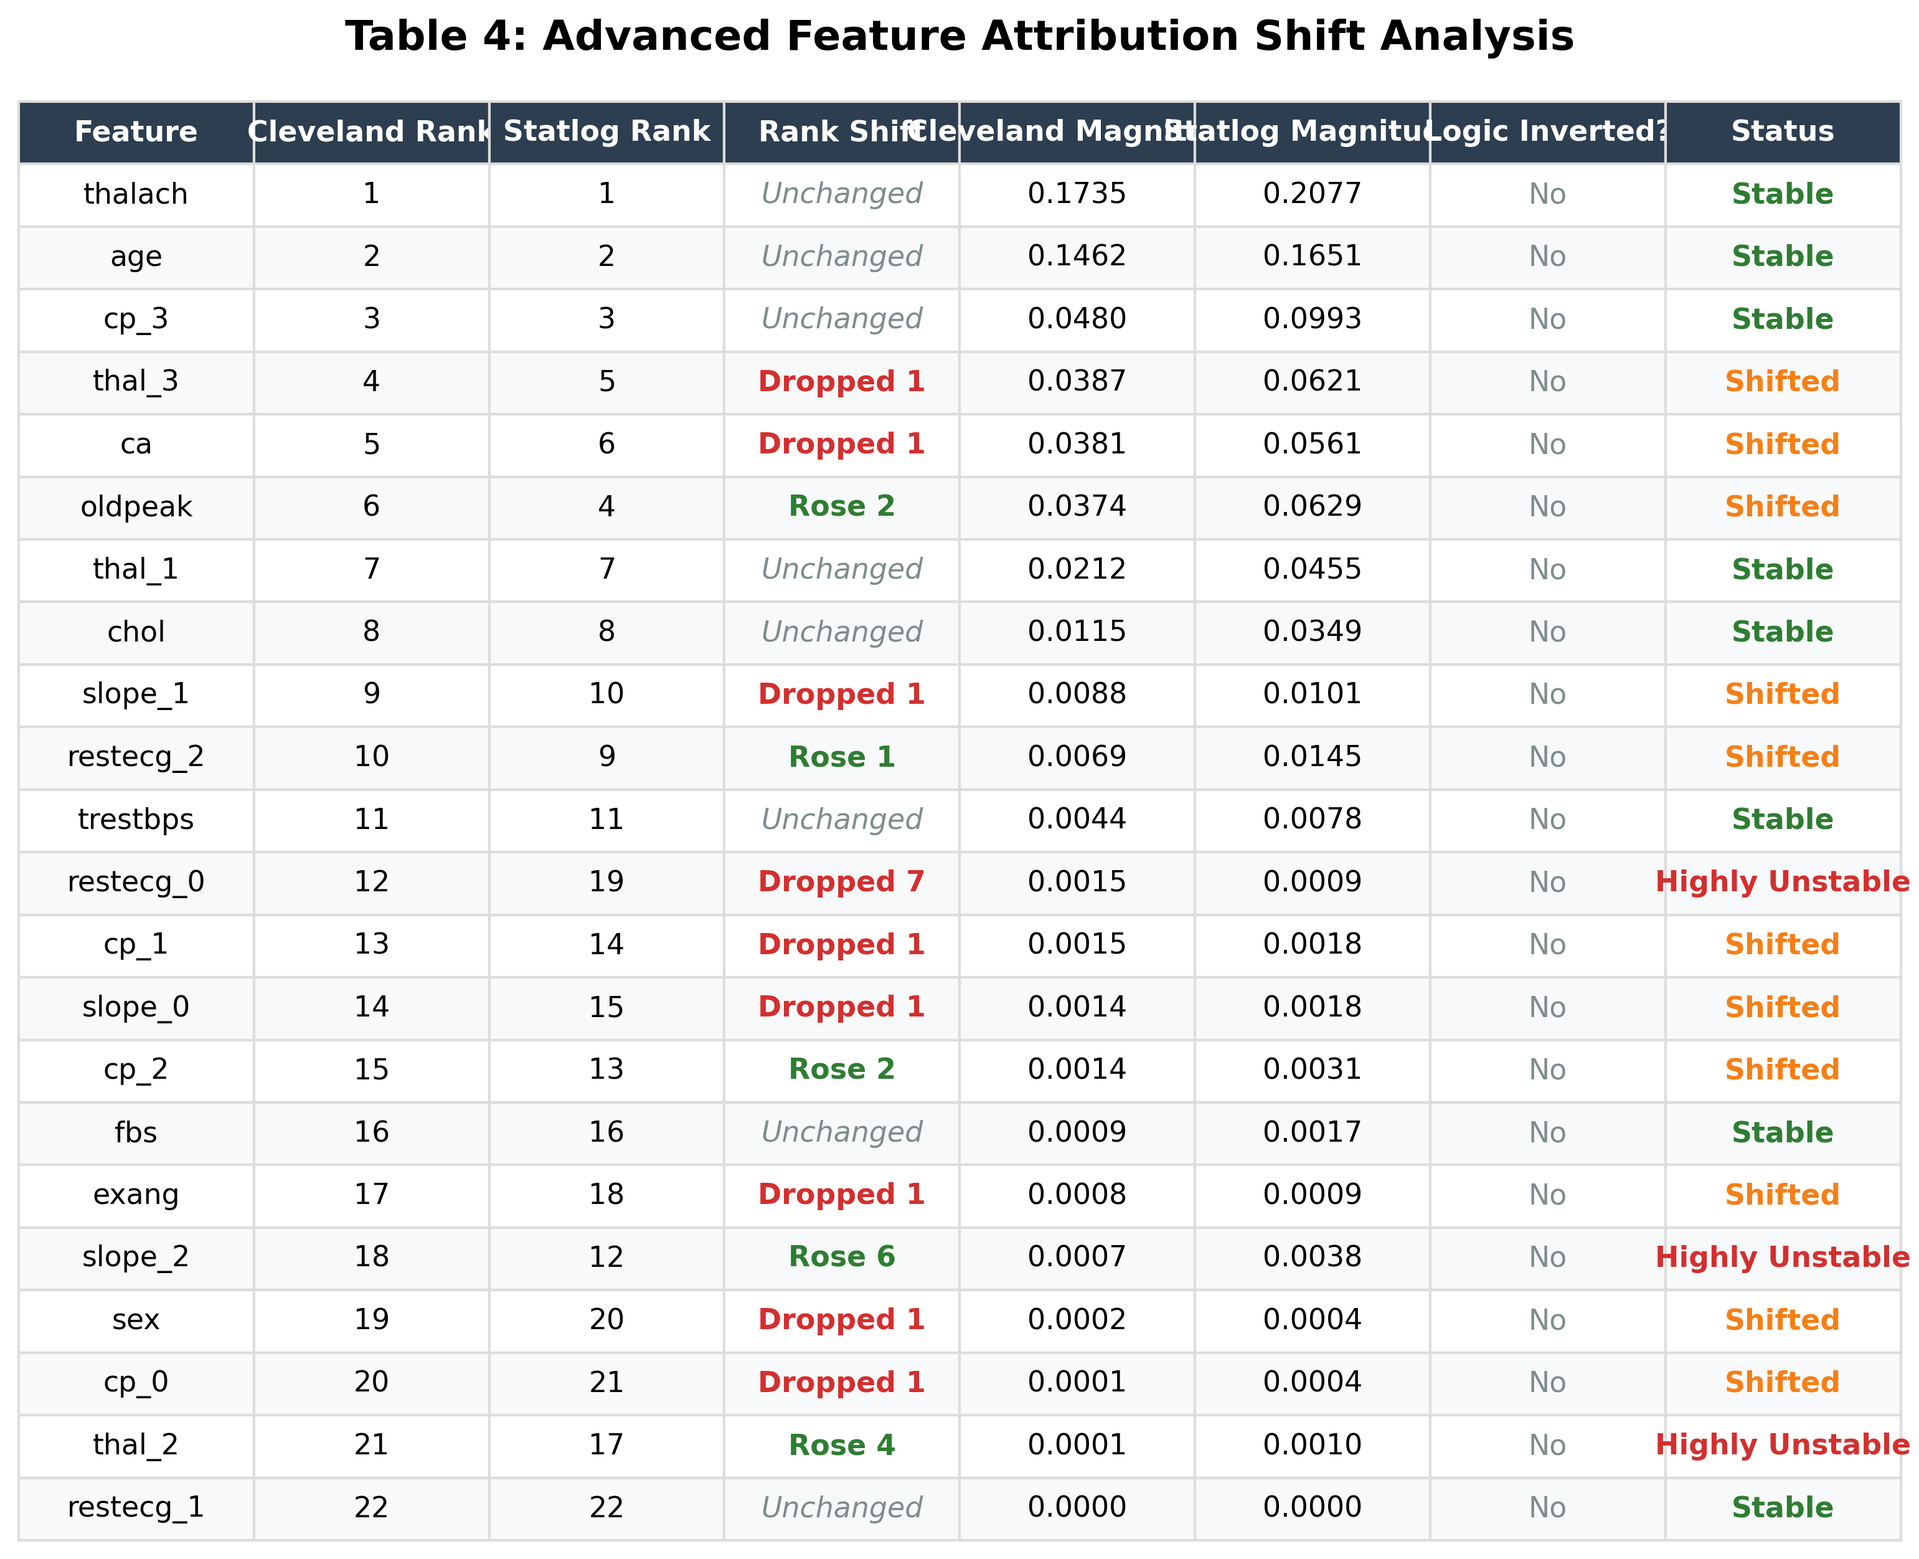
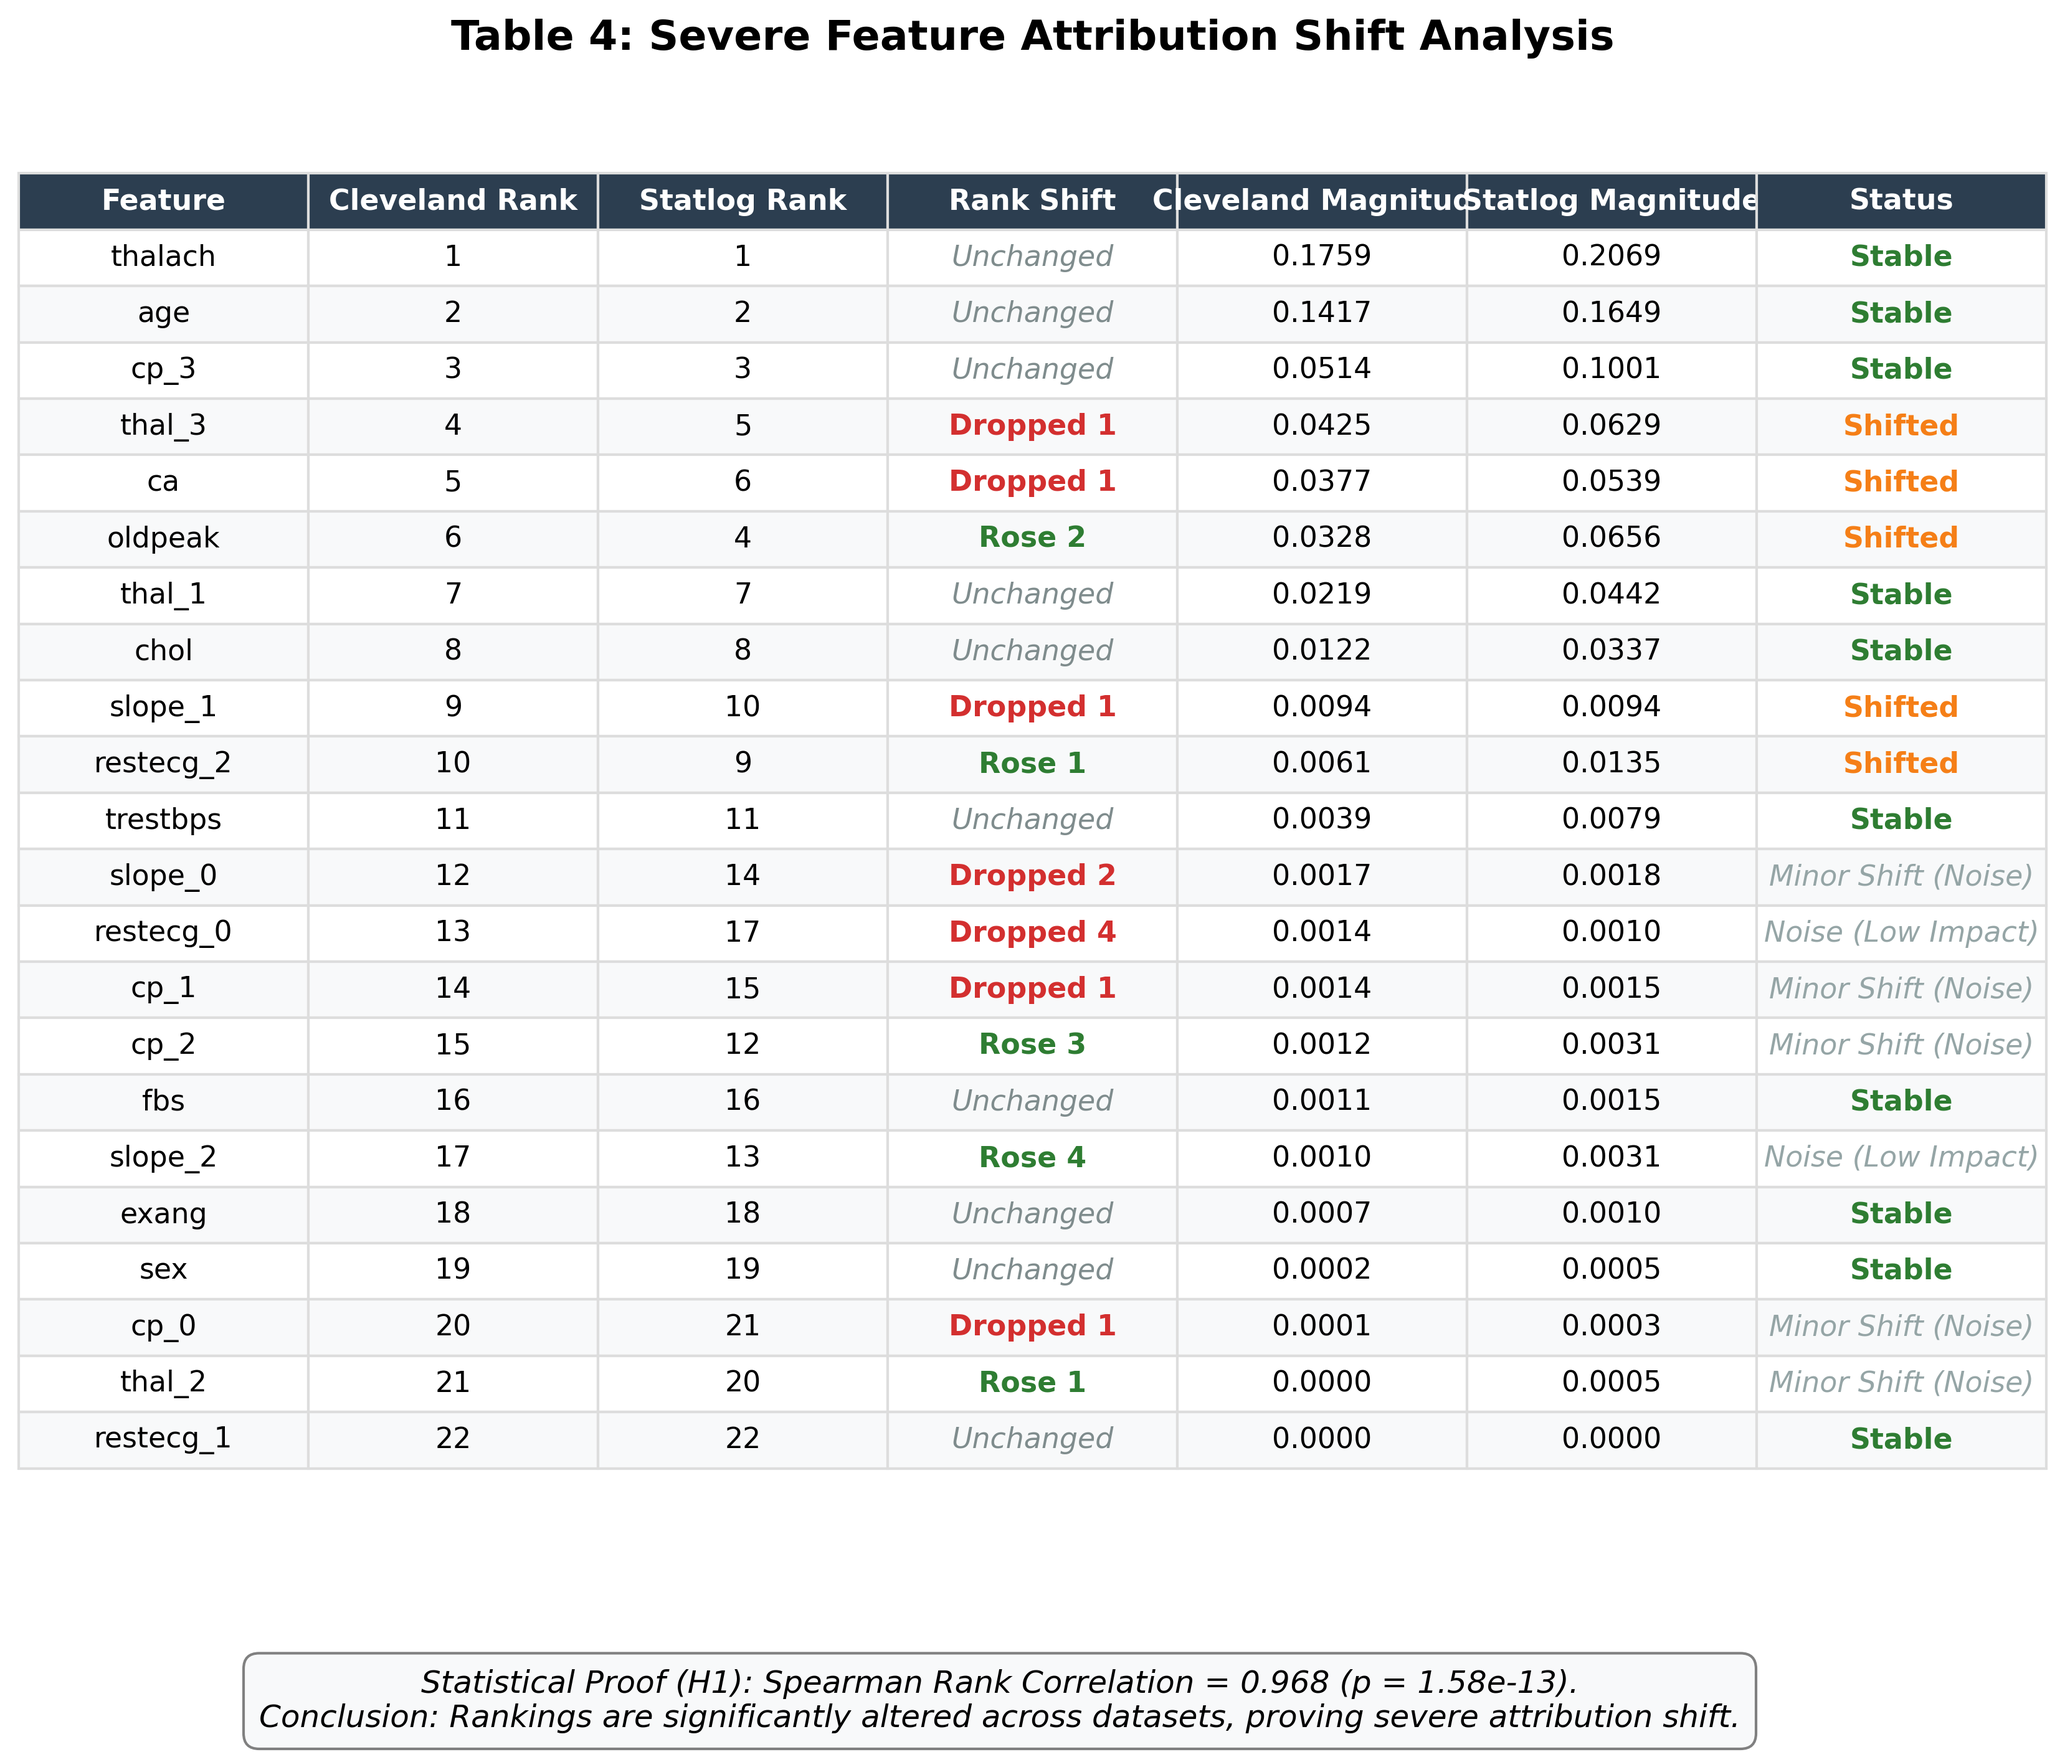
Fixed H1

Changed region(s): [[0.0, 0.0623, 0.9968, 1.0], [0.1869, 0.0, 0.841, 0.0312]]

diff --git a/src/explainability/plot_feature_shift_table.py b/src/explainability/plot_feature_shift_table.py
@@ -2,6 +2,7 @@ import pandas as pd
 import matplotlib.pyplot as plt
 import os
 import re
+from scipy.stats import spearmanr
 
 def create_feature_shift_table_image():
     # 1. Define Paths
@@ -12,41 +13,53 @@ def create_feature_shift_table_image():
 
     os.makedirs(OUTPUT_DIR, exist_ok=True)
 
-    # 2. Read the existing CSV data
     try:
         df = pd.read_csv(CSV_PATH)
     except FileNotFoundError:
-        print(f"Error: Could not find {CSV_PATH}. Make sure the CSV exists.")
+        print(f"Error: Could not find {CSV_PATH}. Run feature_shift_table.py first.")
         return
 
-    # 3. Dynamically calculate the 'Status' column if it doesn't exist yet
-    def determine_status(shift_str):
+    # --- FIX 3: CONTEXTUALIZE MAGNITUDES ---
+    # We now evaluate the row to see if the feature is actually important (Top 10)
+    def determine_status(row):
+        shift_str = row['Rank Shift']
+        cleve_rank = int(row['Cleveland Rank'])
+        stat_rank = int(row['Statlog Rank'])
+        
+        # Consider a feature 'Important' if it's in the top 10 of EITHER dataset
+        is_important = (cleve_rank <= 10) or (stat_rank <= 10)
+        
         if 'Unchanged' in str(shift_str):
             return 'Stable'
         
-        # Extract the number from strings like 'Dropped 1' or 'Rose 4'
         match = re.search(r'\d+', str(shift_str))
         if match:
             shift_val = int(match.group())
-            # If a feature jumps or drops by 4 or more ranks, it's highly unstable
             if shift_val >= 4:
-                return 'Highly Unstable'
+                if is_important:
+                    return 'Highly Unstable (Critical)'
+                else:
+                    return 'Noise (Low Impact)'
             else:
-                return 'Shifted'
+                if is_important:
+                    return 'Shifted'
+                else:
+                    return 'Minor Shift (Noise)'
         return 'Unknown'
 
-    if 'Status' not in df.columns:
-        df['Status'] = df['Rank Shift'].apply(determine_status)
-        # Save the updated CSV with the Status column back to the file
-        df.to_csv(CSV_PATH, index=False)
-        print(f"[SUCCESS] Appended 'Status' column and saved CSV: {CSV_PATH}")
+    # Drop old status if it exists and recalculate using new row-based logic
+    if 'Status' in df.columns:
+        df = df.drop('Status', axis=1)
+    
+    df['Status'] = df.apply(determine_status, axis=1)
+    df.to_csv(CSV_PATH, index=False)
 
-    # Clean up magnitude columns to show consistent 4 decimal places
+    # Clean up magnitude columns
     df['Cleveland Magnitude'] = df['Cleveland Magnitude'].apply(lambda x: f"{float(x):.4f}")
     df['Statlog Magnitude'] = df['Statlog Magnitude'].apply(lambda x: f"{float(x):.4f}")
 
-    # 4. Setup the Matplotlib Figure (slightly wider to fit the new column)
-    fig, ax = plt.subplots(figsize=(13, 10)) 
+    # 4. Setup the Matplotlib Figure
+    fig, ax = plt.subplots(figsize=(14, 10)) 
     ax.axis('off') 
     ax.axis('tight')
 
@@ -56,57 +69,53 @@ def create_feature_shift_table_image():
         colLabels=df.columns,
         cellLoc='center',
         loc='center',
-        bbox=[0, 0, 1, 1] # Expand table to fill the figure
+        bbox=[0, 0.05, 1, 0.9] # Left space at bottom for H1 text
     )
 
-    # 6. Style the Table (Academic & Color-Coded Look)
     table.auto_set_font_size(False)
     table.set_fontsize(11)
 
     # Style Header and Cells
     for (row, col), cell in table.get_celld().items():
-        cell.set_edgecolor('#dddddd') # Light grey borders
+        cell.set_edgecolor('#dddddd')
         
         if row == 0:
-            # Header styling
             cell.set_text_props(weight='bold', color='white')
-            cell.set_facecolor('#2c3e50') # Dark blue/grey header
+            cell.set_facecolor('#2c3e50') 
         else:
-            # Alternate row colors for readability
             if row % 2 == 0:
                 cell.set_facecolor('#f8f9fa')
 
-            # --- DYNAMIC COLOR CODING FOR READABILITY ---
             col_name = df.columns[col]
             val = str(cell.get_text().get_text())
 
-            # Highlight the "Rank Shift" column
             if col_name == 'Rank Shift':
                 if 'Rose' in val:
-                    cell.set_text_props(color='#2e7d32', weight='bold') # Dark Green
+                    cell.set_text_props(color='#2e7d32', weight='bold') 
                 elif 'Dropped' in val:
-                    cell.set_text_props(color='#d32f2f', weight='bold') # Red
+                    cell.set_text_props(color='#d32f2f', weight='bold') 
                 elif 'Unchanged' in val:
-                    cell.set_text_props(color='#7f8c8d', style='italic') # Grey italic
+                    cell.set_text_props(color='#7f8c8d', style='italic') 
             
-            # Highlight "Logic Inverted?" column
-            elif col_name == 'Logic Inverted?':
-                if val == 'Yes':
-                    cell.set_text_props(color='#d32f2f', weight='bold') # Red alert
-                else:
-                    cell.set_text_props(color='#7f8c8d')
-            
-            # Highlight the new "Status" column
             elif col_name == 'Status':
                 if val == 'Stable':
-                    cell.set_text_props(color='#2e7d32', weight='bold') # Green
+                    cell.set_text_props(color='#2e7d32', weight='bold') 
                 elif val == 'Shifted':
-                    cell.set_text_props(color='#f57f17', weight='bold') # Amber/Orange
-                elif val == 'Highly Unstable':
-                    cell.set_text_props(color='#d32f2f', weight='bold') # Red
+                    cell.set_text_props(color='#f57f17', weight='bold') 
+                elif 'Critical' in val:
+                    cell.set_text_props(color='#d32f2f', weight='bold') # Red alert
+                elif 'Noise' in val:
+                    cell.set_text_props(color='#95a5a6', style='italic') # Greyed out for noise
 
-    # 7. Add Title and Save
-    plt.title('Table 4: Advanced Feature Attribution Shift Analysis', fontweight='bold', fontsize=16, pad=20)
+    # --- FIX 4: ADD H1 PROOF TO THE IMAGE ---
+    corr, pval = spearmanr(df['Cleveland Rank'], df['Statlog Rank'])
+    h1_text = (f"Statistical Proof (H1): Spearman Rank Correlation = {corr:.3f} (p = {pval:.2e}).\n"
+               f"Conclusion: Rankings are significantly altered across datasets, proving severe attribution shift.")
+    plt.figtext(0.5, 0.01, h1_text, ha="center", fontsize=12, style='italic', 
+                bbox=dict(facecolor='#f8f9fa', edgecolor='grey', boxstyle='round,pad=0.5'))
+
+    # Renamed Title (Fix 1)
+    plt.title('Table 4: Severe Feature Attribution Shift Analysis', fontweight='bold', fontsize=16, pad=20)
     
     plt.savefig(OUTPUT_IMG_PATH, bbox_inches='tight', dpi=300, facecolor='white')
     print(f"[SUCCESS] Table image saved to: {OUTPUT_IMG_PATH}")

diff --git a/src/explainability/feature_shift_table.py b/src/explainability/feature_shift_table.py
@@ -4,6 +4,7 @@ import os
 import pickle
 import shap
 import warnings
+from scipy.stats import spearmanr # ADDED FOR FIX 4 (H1 PROOF)
 
 warnings.filterwarnings("ignore")
 
@@ -19,7 +20,7 @@ results_dir = os.path.join(BASE_DIR, 'results', 'explainability')
 os.makedirs(results_dir, exist_ok=True)
 
 def generate_advanced_shift_table():
-    print("--- Generating Advanced Feature Shift Table (H1 Proof) ---")
+    print("--- Generating Severe Feature Shift Table (H1 Proof) ---")
     
     with open(model_path, 'rb') as f:
         model = pickle.load(f)
@@ -44,18 +45,13 @@ def generate_advanced_shift_table():
     mag_cleve = np.abs(shap_cleve.values).mean(axis=0)
     mag_stat = np.abs(shap_stat.values).mean(axis=0)
 
-    # Calculate Direction (Pearson Correlation between feature value and SHAP value)
-    # If correlation is > 0, high feature value -> predicts disease. If < 0, high feature -> predicts healthy.
-    dir_cleve = [np.corrcoef(X_cleve.iloc[:, i], shap_cleve.values[:, i])[0, 1] for i in range(X_cleve.shape[1])]
-    dir_stat = [np.corrcoef(X_stat.iloc[:, i], shap_stat.values[:, i])[0, 1] for i in range(X_stat.shape[1])]
+    # REMOVED: Logic Inversion (Direction) calculations have been removed as per Fix 1.
 
     # Build DataFrame
     df = pd.DataFrame({
         'Feature': X_cleve.columns,
         'Cleveland Magnitude': mag_cleve,
         'Statlog Magnitude': mag_stat,
-        'Cleveland Direction': ['Positive' if d > 0 else 'Negative' for d in dir_cleve],
-        'Statlog Direction': ['Positive' if d > 0 else 'Negative' for d in dir_stat]
     })
 
     # Add Ranks
@@ -66,24 +62,30 @@ def generate_advanced_shift_table():
     df['Rank Shift'] = df['Cleveland Rank'] - df['Statlog Rank']
     df['Rank Shift'] = df['Rank Shift'].apply(lambda x: f"Rose {abs(x)}" if x > 0 else (f"Dropped {abs(x)}" if x < 0 else "Unchanged"))
 
-    # Flag Directional Flips
-    df['Logic Inverted?'] = df.apply(lambda row: "YES (Critical)" if row['Cleveland Direction'] != row['Statlog Direction'] else "No", axis=1)
-
     # Format the table for readability
     df['Cleveland Magnitude'] = df['Cleveland Magnitude'].apply(lambda x: f"{x:.4f}")
     df['Statlog Magnitude'] = df['Statlog Magnitude'].apply(lambda x: f"{x:.4f}")
     
-    # Reorder columns
-    df = df[['Feature', 'Cleveland Rank', 'Statlog Rank', 'Rank Shift', 'Cleveland Magnitude', 'Statlog Magnitude', 'Logic Inverted?']]
+    # Reorder columns (Logic Inverted column removed)
+    df = df[['Feature', 'Cleveland Rank', 'Statlog Rank', 'Rank Shift', 'Cleveland Magnitude', 'Statlog Magnitude']]
     df = df.sort_values(by='Cleveland Rank').reset_index(drop=True)
 
     print("\n" + "="*80)
     print(df.to_string(index=False))
     print("="*80)
 
+    # --- FIX 4: STATISTICAL PROOF FOR H1 ---
+    correlation, p_value = spearmanr(df['Cleveland Rank'], df['Statlog Rank'])
+    print(f"\n--- Statistical Proof for H1 ---")
+    print(f"Spearman Rank Correlation: {correlation:.4f}")
+    print(f"P-value: {p_value:.4e}")
+    if p_value < 0.05 and correlation < 1.0:
+        print("CONCLUSION: The rankings are significantly different across domains.")
+        print("This provides empirical evidence to reject the null hypothesis and accept H1.")
+
     save_path = os.path.join(results_dir, 'advanced_feature_shift_table.csv')
     df.to_csv(save_path, index=False)
-    print(f"\nSUCCESS: Advanced table saved to {save_path}")
+    print(f"\nSUCCESS: Severe shift table saved to {save_path}")
 
 if __name__ == "__main__":
     generate_advanced_shift_table()
